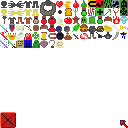
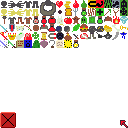
magic barrier

Changed region(s): [[0.5, 0.3125, 0.625, 0.375]]

diff --git a/doorsofdoom/src/main/java/com/github/msx80/doorsofdoom/model/Item.java b/doorsofdoom/src/main/java/com/github/msx80/doorsofdoom/model/Item.java
@@ -60,12 +60,14 @@ public enum Item {
 	SmallPotion("Potion, Small", 293, new String[] {"Deliciously", "refreshing!", "", "Heal 10 hp."}, 0, null, null, null, Usable.of("Drink", (a, b) -> potionHealing(a, b, 10))),
 	MediumPotion("Potion, Medium", 310, new String[] {"Double the fun!", "", "Heal 20 hp."}, 0, null, null, null, Usable.of("Drink", (a, b) -> potionHealing(a, b, 20))),
 	BigPotion("Potion, Large", 294, new String[] {"So much healing!", "", "Heal 100 hp."}, 0, null, null, null, Usable.of("Drink", (a, b) -> potionHealing(a, b, 100))),
+	Rejuvenant("Rejuvenant", 282, new String[] {"Heal 2 hp per", "turn while active."}, 0, null, null, Usable.of("Drink", addEffect(Effect.REGENERATION, "You feel your body slowly fixing itself.")), null),
+	BarrierPotion("Barrier Potion", 345, new String[] {"Create a magic", "barrier around you.","", "Reduces damage by", "half."}, 0, null, null, Usable.of("Drink", addEffect(Effect.BARRIER, "You feel surrounded by an energy barrier.")), null),
+	Elixir("Elixir", 292, new String[] {"The strength of", "a lion, bottled.", "", "+10 max hp."}, 0, null, null, Usable.of("Drink", elixir()), null),
 	Tomato("Tomato", 296, new String[] {"Juicy!", "", "Heal 6 hp."}, 0, null, null, Usable.of("Eat", (i, g) -> foodHealing(i, g, 6)), null),
 	MintLeaf("Mint Leaf", 313, new String[] {"Always kill with", "a fresh breath."}, 0, null, null, null, null),
 		
 	Clover("Clover", 324, new String[] {"This one has", "four leaves.", "", "Always max damage."}, 0, null, null, null, Usable.of("Prime", addEffect(Effect.LUCKY, "You rub the clover and feel lucky!"))),
 	Spinach("Spinach can", 299, new String[] {"The strength of", "a sailor!", "", "+5 Strength."}, 0, null, null, Usable.of("Eat", addEffect(Effect.MUSCLES, "You eat the whole can and now you're READY", "TO RUMBLE!!")), null),
-	Rejuvenant("Rejuvenant", 282, new String[] {"Heal 2 hp per", "turn while active."}, 0, null, null, Usable.of("Drink", addEffect(Effect.REGENERATION, "You feel your body slowly fixing itself.")), null),
 	SmokeBomb("Smoke Bomb", 311, new String[] {"Creates an", "impenetrable fog."}, 0, null, null, null, Usable.of("Throw", addEffect(Effect.SMOKE, "You hide in the smoke..", "Monsters will have a hard time", "finding you.."))),
 	Magnet("Magnet", 326, new String[] {"A magnet for", "gold!", "", "Max gold loot."}, 0, null, null, Usable.of("Wield", addEffect(Effect.MAGNETIC, "You'll find even the most hidden gold", "piece with this!")), null),
 	CowardToken("Coward Token", 327, new String[] {"A memento that you", "once fled a monster.", "", "-15 Points each."}, 0, null, null, null, null),
@@ -74,7 +76,6 @@ public enum Item {
 	Bread("Bread", 280, new String[] {"Just a little stale.", "", "Heal 5 hp."}, 0, null, null, Usable.of("Eat", (i, g) -> foodHealing(i, g, 5)), null),
 	Hamburger("Tasty Hamburger", 314, new String[] {"The healthy snack", "of choice for fine", "adventurers.", "", "Heals 50 and", "gives strength."}, 0, null, null, Usable.of("Eat", (i, g) -> hamburger(i, g, 50)), null),
 	Gelatin("Yummy Gelatin", 323, new String[] {"It's made of bones,", "don't you know?", "So tasty!", "", "Heal 50 hp."}, 0, null, null, Usable.of("Eat", (i, g) -> foodHealing(i, g, 50)), null),
-	Elixir("Elixir", 292, new String[] {"The strength of", "a lion, bottled.", "", "+10 max hp."}, 0, null, null, Usable.of("Drink", elixir()), null),
 	Rock("Rock", 315, new String[] {"You can sling this.", "If you have a", "slingshot."}, 0, null, null, null, Usable.of("Sling", sling())),
 	Scroll("Scroll", 325, new String[] {"Sucks all life from", "an enemy and gives", "it to you.", "(except devils)"}, 0, null, null, null, Usable.of("Recite", scroll())),
 	Dart("Poison Dart", 285, new String[] {"Halves a monster's", "strength."}, 0, null, null, null, Usable.of("Throw", dart())),

diff --git a/doorsofdoom/src/main/java/com/github/msx80/doorsofdoom/DoorsOfDoom.java b/doorsofdoom/src/main/java/com/github/msx80/doorsofdoom/DoorsOfDoom.java
@@ -176,6 +176,13 @@ public class DoorsOfDoom implements Game, GameInterface {
 		} else {
 			attacksound();
 			int dmg = run.monster.attack.random();
+			
+			boolean barrier = run.pg.hasEffect(Effect.BARRIER);
+			if(barrier) { 
+				dmg = dmg /2;
+				log.add(9, "Magic Barrier", 15, " dispels half damage (", 6, ""+dmg, 15, ")!");
+			}
+			
 			float blockedf = (float)dmg * (float)run.pg.armour / 100f;
 			int blocked = (int)blockedf;
 			float blockedRemainder = blockedf - blocked;

diff --git a/doorsofdoom/src/main/java/com/github/msx80/doorsofdoom/model/Craft.java b/doorsofdoom/src/main/java/com/github/msx80/doorsofdoom/model/Craft.java
@@ -58,7 +58,8 @@ public class Craft {
 		Craft.of(Item.VenomSword, Item.Venom, 15, Item.Sword, 1),
 		
 		Craft.of(Item.Hamburger, Item.Bread, 1, Item.Tomato, 1, Item.Cheese, 1),
-		Craft.of(Item.Bomb, Item.Phlogiston, 2, Item.Ectoplasm, 3)
+		Craft.of(Item.Bomb, Item.Phlogiston, 2, Item.Ectoplasm, 3),
+		Craft.of(Item.BarrierPotion, Item.Ectoplasm, 1, Item.Venom, 1, Item.Leather, 1)
 	);
 
 	public Craft(Item output, Map<Item, Integer> ingredients) {

diff --git a/doorsofdoom/src/main/java/com/github/msx80/doorsofdoom/model/Effect.java b/doorsofdoom/src/main/java/com/github/msx80/doorsofdoom/model/Effect.java
@@ -9,6 +9,7 @@ public enum Effect {
 	MAGNETIC("MAGNETIC", 267, 10),
 	REGENERATION("REGENERATION", 284, 10),
 	MADNESS("MADNESS", 339, 10),
+	BARRIER("MAGIC BARRIER", 344, 15)
 	;
 	
 	public final String name;
